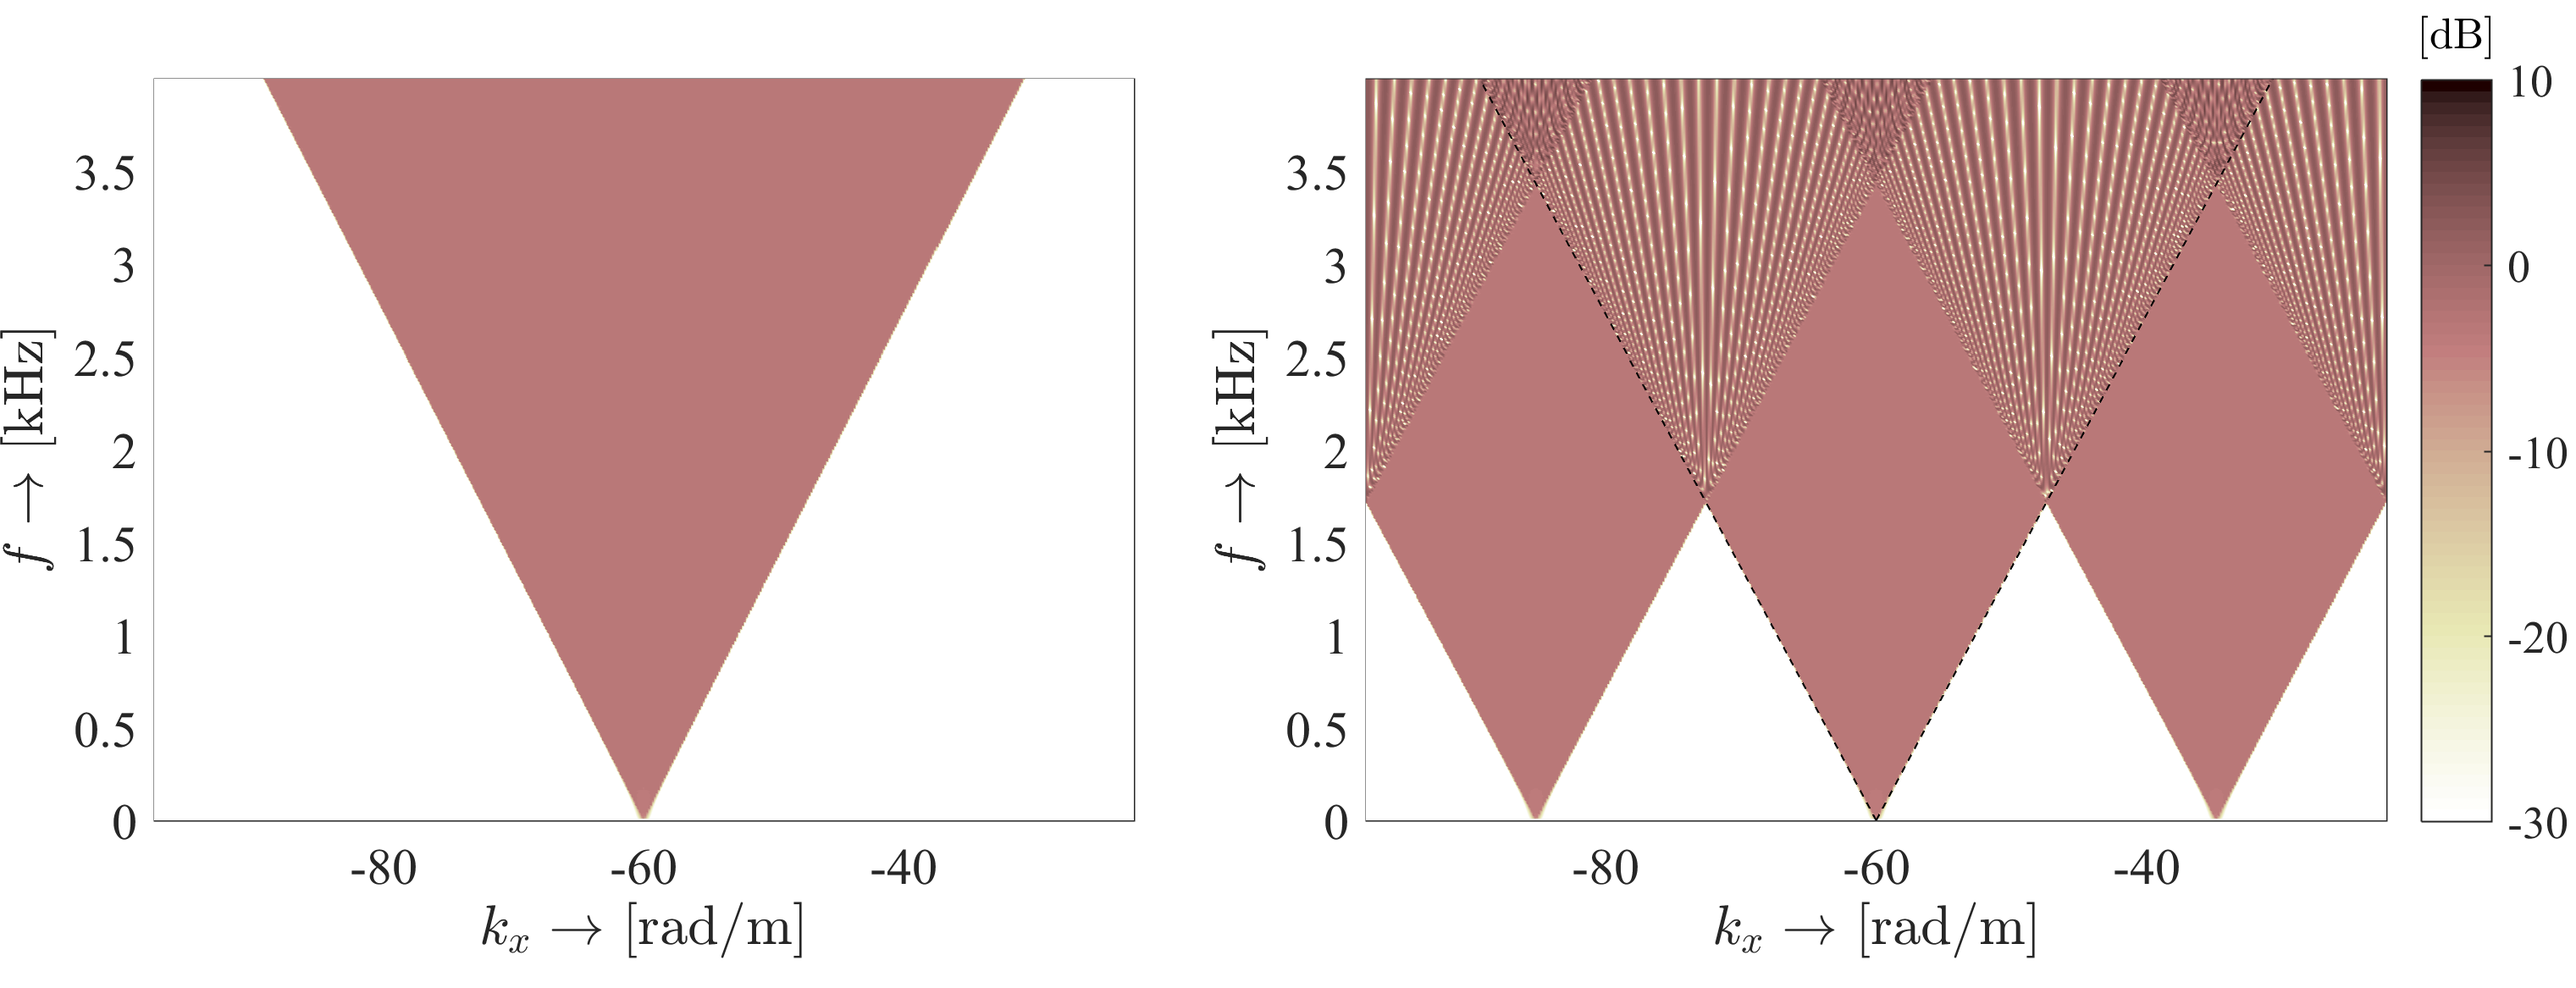
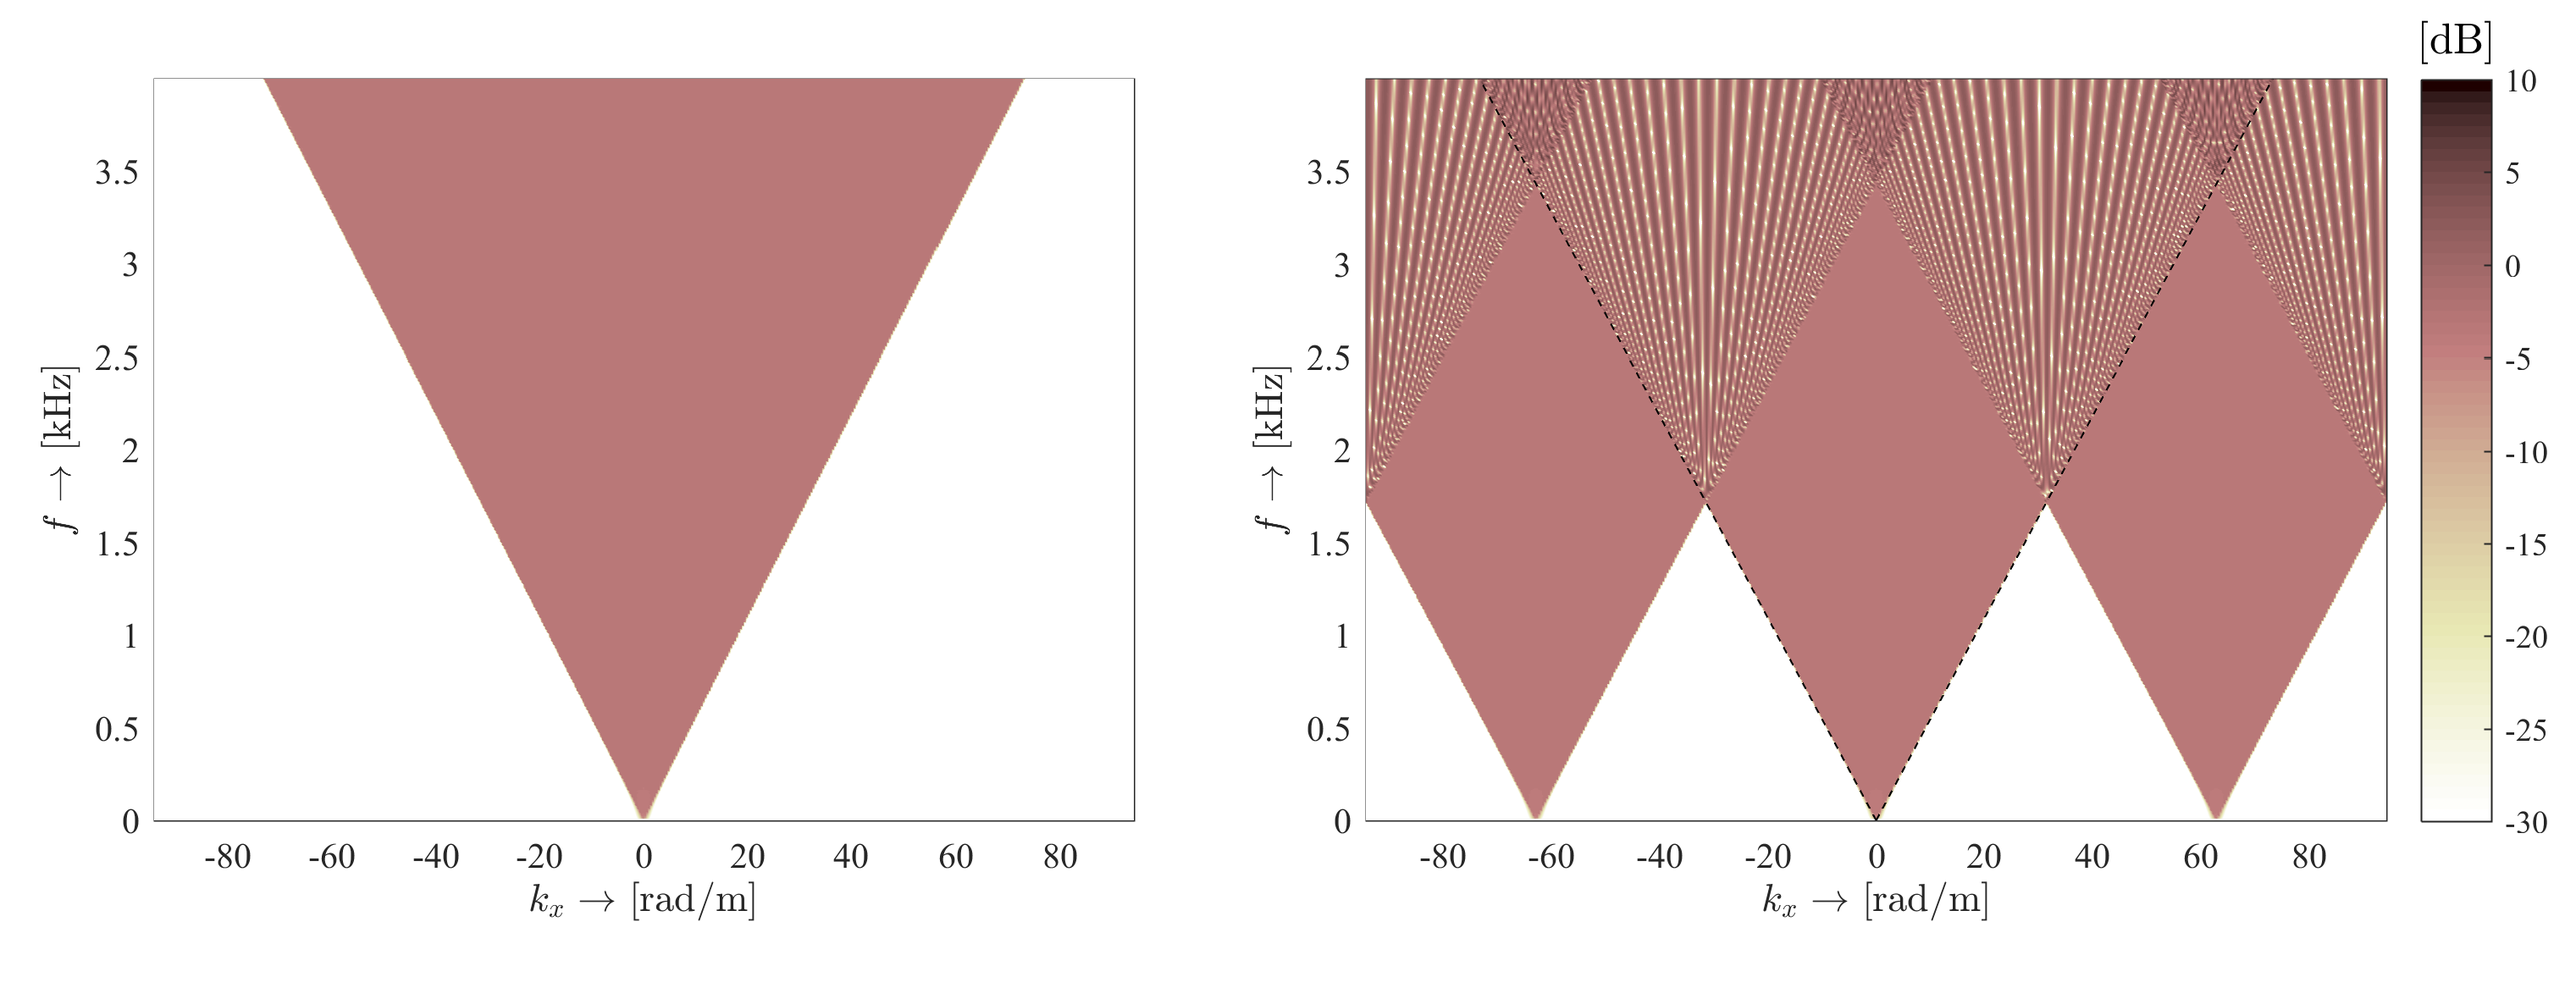
..

diff --git a/LatexProject/sound_field_synthesis.tex b/LatexProject/sound_field_synthesis.tex
@@ -927,6 +927,8 @@ D(x_0) =-y_s
 \begin{figure}
 \centering
 	\begin{overpic}[width = 1\columnwidth ]{Figures/SFS_theory/25D_spatial_SDM_linear_SSD.png}
+	\put(0, 0){(a)}
+	\put(45,0){(b)}
 	\end{overpic}   
     \caption{2.5D synthesis of a 3D point source located at $\vxs = \posvec{3}{0}{-2}{0}$, radiating at $\omega_0 =~2\pi \cdot 1 \mathrm{krad}/s$.
 	The synthesis is referenced on a circle around the virtual source, with a radius of $R_{\mathrm{ref}} = 4~\mathrm{m}$.
@@ -948,7 +950,7 @@ The obtained formulation allows the comparison of the implicit and explicit solu
 In order to express the driving functions merely in terms of the involved quantities measured along the SSD, all the local wavenumber vector, the principal radii and the pressure of the target field has to be defined along the $y=0$ line.
 For the local wavenumber vector this relationship can be simply established: Assuming isotropic medium, the propagation direction---and the local wavenumber vector---does not change along the propagation path, thus $\vk^P(\vxref(\vxo)) = \vk^P(\vxo)$ holds.
 
-The change of the principal radii over the propagation path is given by \eqref{eq:app:propagated_radii}, stating that the principal radii of an arbitrary field increase linearly along the path of propagation..
+The change of the principal radii over the propagation path is given by \eqref{eq:app:propagated_radii}, stating that the principal radii of an arbitrary field increase linearly along the path of propagation.
 The relation between the target field, measured at an arbitrary reference position and measured along the SSD can be established by the asymptotic evaluation of the Rayleigh integral, given for a general wave field by \eqref{eq:HF_approx:asymptotic_rayleigh}.
 However, both relations were only formulated for an independent receiver position $\vx$ in terms of a dependent SSD position $\vxo^*(\vx)$, related through the implicit relation
 \begin{equation}
@@ -1001,7 +1003,7 @@ On the other hand the explicit driving function \eqref{eq:SFS_theory:spatial_sdm
 
 \section{Synthesis applying discrete secondary source distribution}
 \label{Sec:Aliasing}
-\fscom{the findings in this section are very good, text deserves critical review, shorter sentences, more clear statements, I corrected some major issues}
+%\fscom{the findings in this section are very good, text deserves critical review, shorter sentences, more clear statements, I corrected some major issues}
 
 Throughout this thesis synthesis applying the continuous distribution of secondary sources has been discussed so far.
 In practical applications the SSD is realized by a densely spaced loudspeaker ensemble with the source elements positioned at discrete locations.
@@ -1020,18 +1022,20 @@ However, spatial aliasing gains a simple physical interpretation when time domai
 As discussed already, the 2.5D WFS driving functions apply a half-differentiation to the input signal in order to compensate for the infinite tail (i.e. the half-integrator characteristics) of the secondary source response, emerging due to the geometry of the SSD.
 Compensation is therefore performed by each SSD element canceling out the fields of the adjacent secondary sources after the virtual wavefront is emitted.
 In case of a discrete SSD this cancellation can not be performed below the aliasing frequency, hence in the synthesized field the spherical wave fields of the individual SSD elements will be present.
-Spatial aliasing therefore manifests in a series of echoes---each produced by one individual secondary source element----, following the intended virtual wavefront carrying the driving function of the individual SSD elements, high-pass filtered above the aliasing frequency \cite{spors2009spatial}. 
+Spatial aliasing therefore manifests in a series of echoes---each produced by one individual secondary source element---, following the intended virtual wavefront carrying the driving function of the individual SSD elements, high-pass filtered above the aliasing frequency \cite{spors2009spatial}. 
 
-Note that in a given receiver position due to the short time interval between the arrival of the high-pass filtered echo wavefronts, aliasing is perceived rather as the coloration of the virtual sound field, than actual echoes/reverberation, while due to the precedence effects the localization of the virtual field is not degraded \footnote{This is true only for the synthesis of non-focused fields.
-In case of reproducing e.g. a focused point source spatial aliasing appears as pre-echoes, arriving before the intended virtual wavefront \cite{Spors2009:FocusedSourceAliasing}}.
-A detailed investigation of the perception of spatial aliasing in WFS can be found in \fpcom{reference missing}.
+Note that in a given receiver position due to the short time interval between the arrival of the high-pass filtered echo wavefronts, aliasing is perceived rather as the coloration of the virtual sound field, than actual echoes/reverberation, while due to the precedence effect the localization of the virtual field is not degraded \footnote{This is true only for the synthesis of non-focused fields.
+In case of reproducing e.g. a focused point source spatial aliasing appears as pre-echoes, arriving before the intended virtual wavefront \cite{Spors2009:FocusedSourceAliasing}.}.
+A detailed investigation of the perception of spatial aliasing in WFS can be found in \cite{8371275}.
 In the followings only an objective description of the above phenomena is presented.
 
 \begin{figure}
 \centering
-	\begin{overpic}[width = 1\columnwidth ]{Figures/SFS_theory/Spatial_alising.png}
+	\begin{overpic}[width = 1\columnwidth]{Figures/SFS_theory/Spatial_alising.png}
+	\put(0, 0){(a)}
+	\put(50,0){(b)}
 	\end{overpic}   
-    \caption{2.5D synthesis of a 3D point source located at $\vxs = \posvec{3}{0}{-2}{0}$, radiating at $\omega_0 =~2\pi \cdot 2 \mathrm{krad}/s$ (a), or emitting an impulse, bandlimited to $15~\mathrm{kHz}$.\fscom{indicate time instant}
+    \caption{2.5D synthesis of a 3D point source located at $\vxs = \posvec{3}{0}{-2}{0}$, radiating at $\omega_0 =~2\pi \cdot 2~\mathrm{krad}/s$ (a), or emitting an impulse, bandlimited to $15~\mathrm{kHz}$ measured at $t_0 = 10~\mathrm{ms}$ (b).
     The synthesis is referenced on a reference line with $\yref = 1.5~\mathrm{m}$.
 	Synthesis is performed using a linear SSD with the secondary source spacing set to $\Delta x = 10~\mathrm{cm}$.}
 \label{fig:SFS_theory:Spatial_alising}  
@@ -1041,17 +1045,16 @@ In a recent publication it was shown that by applying the unified WFS framework 
 As an alternative, the following derivation approaches the problem by utilizing the spectral description of the synthesized field applying a discretized SSD, as introduced in \cite{Ahrens2012}.
 
 Assume the synthesis of an arbitrary sound field by applying a linear SSD, located at $\vxo = \posvec{3}{x_0}{0}{0}$.
-The synthesized field in the spatial and wavenumber domains is given by \eqref{Eq:SFS_Theory:linear_synth_field_spatial} and \eqref{Eq:SFS_Theory:linear_synth_field_spectral}, respectively, in case of a continuous SSD.
-Discretization of the SSD can be mathematically modeled by sampling of the driving function with a sampling distance being the actual loudspeaker spacing $\Delta x$:
+The synthesized field in the spatial and wavenumber domains is given by \eqref{Eq:SFS_Theory:linear_synth_field_spatial} and \eqref{Eq:SFS_Theory:linear_synth_field_spectral} respectively, in case of a continuous SSD.
+Discretization of the SSD can be mathematically modeled by the sampling of the driving function with a sampling distance being the actual loudspeaker spacing $\Delta x$:
 \begin{equation}
 D^{\mathrm{S}}(x,\omega) = \sum_{\eta = -\infty}^{\infty} D(x,\omega) \cdot \delta \left(x - \eta \Delta x \right).
 \end{equation}
 Since each secondary source is represented by a Dirac delta, hence in this model the SSD consists of a discrete set of 3D point sources.
 Exploiting that the spectrum of a series of Dirac deltas is a pulse train itself \cite{Girod2001}, and applying the sifting property of the Dirac delta, the wavenumber content of the sampled driving function reads as
 \begin{equation}
-\tilde{D}^{\mathrm{S}}(k_x,\omega) = \fscom{\frac{1}{\Delta x}} \sum_{\eta = -\infty}^{\infty} \tilde{D}\left(k_x - \eta \frac{2\pi}{\Delta x},\omega \right).
+\tilde{D}^{\mathrm{S}}(k_x,\omega) = \frac{1}{\Delta x} \sum_{\eta = -\infty}^{\infty} \tilde{D}\left(k_x - \eta \frac{2\pi}{\Delta x},\omega \right).
 \end{equation}
-\fscom{$\frac{1}{\Delta x}$ makes the signal processing model consistent}
 % Add: extended secondary sources
 \begin{figure}
 \centering
@@ -1082,7 +1085,7 @@ Above the aliasing frequency---with it's value obtained from $\frac{\omega_a }{c
 
 The wavenumber content of the synthesized field, applying a discrete SSD can be written as
 \begin{equation}
-\tilde{P}(k_x,y,z, \omega) = \tilde{D}^{\mathrm{S}}(k_x,\omega) \cdot \tilde{G}(k_x,y,z, \omega) = \fscom{\frac{1}{\Delta x}}
+\tilde{P}(k_x,y,z, \omega) = \tilde{D}^{\mathrm{S}}(k_x,\omega) \cdot \tilde{G}(k_x,y,z, \omega) = \frac{1}{\Delta x}
 \sum_{\eta = -\infty}^{\infty} \tilde{D}\left(k_x - \eta \frac{2\pi}{\Delta x},\omega \right)  \cdot \tilde{G}(k_x,y,z, \omega).
 \label{Eq:SFS_theory:Aliased_field_sp}
 \end{equation}

diff --git a/LatexProject/MATLAB/Chapter_4_Sound_Field_Synthesis_Theory/Fig_4_13_14_Discrete_driv_fun_spectrum.m b/LatexProject/MATLAB/Chapter_4_Sound_Field_Synthesis_Theory/Fig_4_13_14_Discrete_driv_fun_spectrum.m
@@ -51,9 +51,6 @@ pos = [ 0.06   0.17  0.38   .75
 p1 = axes('Units','normalized','Position',pos(1,:));
 pcolor(kx(1:q:end),w(1:q:end)/(2*pi)/1e3,20*log10(abs(Dkx(1:q:end,1:q:end))))
 set(gca,'FontName','Times New Roman');
-allAxesInFigure = findall(fig,'type','axes');
-b = get(gca,'XTickLabel');
-set(allAxesInFigure,'XTickLabel',b,'FontSize',ftsize);
 xlabel('$k_x \rightarrow$ [rad/m]')
 ylabel('$f \rightarrow$ [kHz]')
 shading interp
@@ -68,15 +65,13 @@ shading interp
 caxis([-30,10])
 axis tight
 set(gca,'FontName','Times New Roman');
-allAxesInFigure = findall(fig,'type','axes');
-b = get(gca,'XTickLabel');
-set(allAxesInFigure,'XTickLabel',b,'FontSize',ftsize);
 xlabel('$k_x \rightarrow$ [rad/m]')
 ylabel('$f \rightarrow$ [kHz]')
+
+
 col = colorbar;
 title(col,'[dB]' , 'Interpreter', 'LaTex' , 'FontSize', ftsize-2);
 %text(kxs-3,0.2,'$k_{x,s}$','FontSize',ftsize)
-
 set(gcf,'PaperPositionMode','auto');
 print( '-r300',fullfile( '../..','Figures/SFS_theory','Aliased_spectrum' ) ,'-dpng')
 
